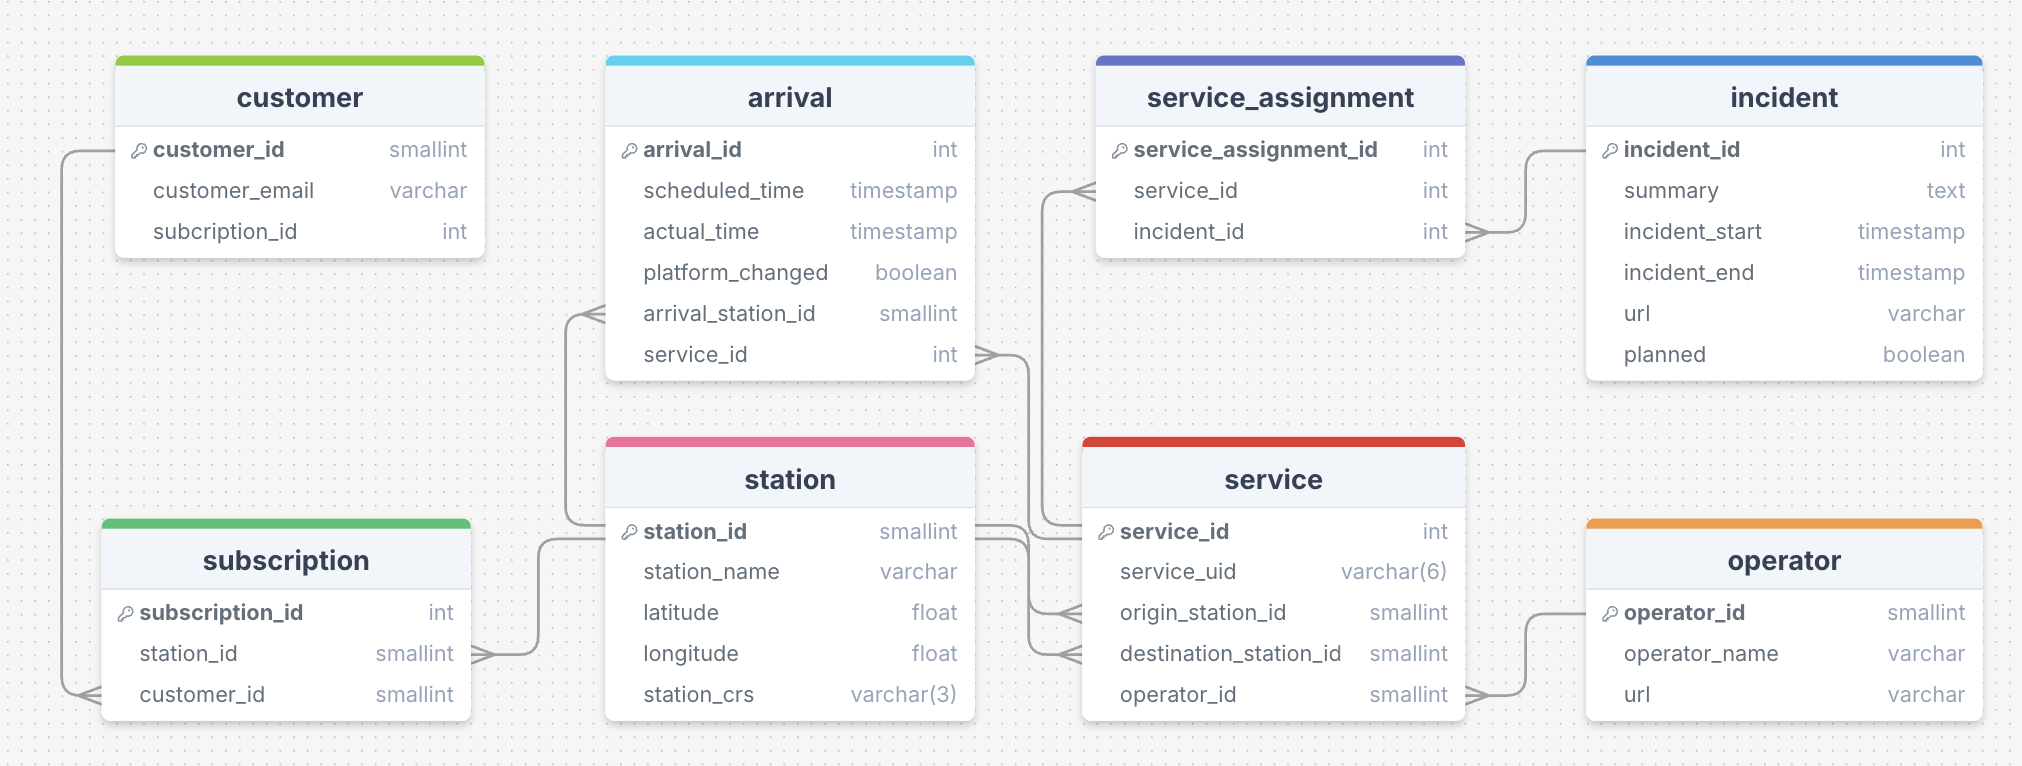
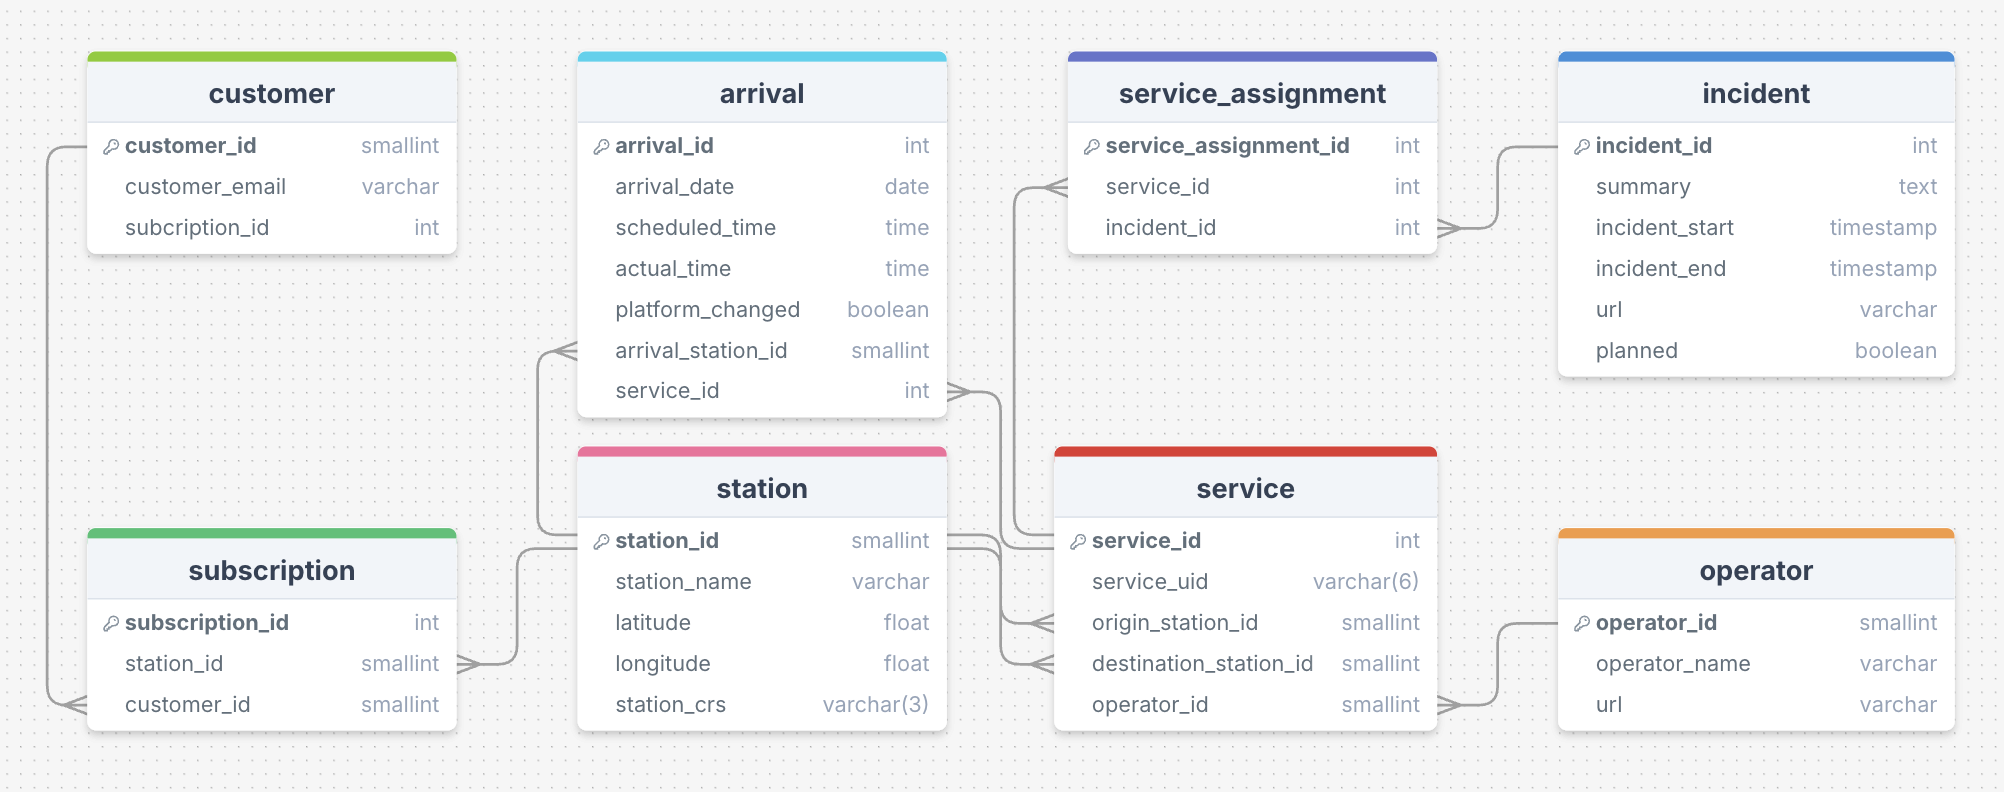
fix schema and ERD and dockerise metrics for lambda

diff --git a/metrics_pipeline/load.py b/metrics_pipeline/load.py
@@ -43,11 +43,13 @@ def create_arrival_staging_table(conn: connection) -> None:
 
         cur.execute("""
                     CREATE TABLE IF NOT EXISTS arrival_staging (
-                    scheduled_time TIMESTAMP,
-                    actual_time TIMESTAMP,
+                    arrival_date DATE,
+                    scheduled_time TIME,
+                    actual_time TIME,
                     platform_changed BOOLEAN,
                     arrival_station_id INT,
-                    service_id INT);
+                    service_id INT,
+                    CONSTRAINT unique_key UNIQUE (arrival_date, arrival_station_id, service_id));
                     """)
 
     logger.info("Created arrival staging table")
@@ -79,12 +81,16 @@ def upload_service_staging_data(df: pd.DataFrame, conn: connection) -> None:
 def upload_arrival_staging_data(df: pd.DataFrame, conn: connection) -> None:
     """Uploads the arrival data to the staging arrival table in RDS."""
 
+    df = df.drop_duplicates(
+        ["arrival_date", "arrival_station_id", "service_id"], keep="first")
+
     df.to_csv("./temp.csv", index=False)
 
     with conn.cursor() as cur:
         with open("./temp.csv", "r", encoding="utf-8") as f:
             cur.copy_expert("""COPY arrival_staging
-                                    (scheduled_time,
+                                    (arrival_date,
+                                     scheduled_time,
                                      actual_time,
                                      platform_changed,
                                      arrival_station_id,
@@ -140,31 +146,30 @@ def merge_arrival_tables(conn: connection) -> None:
     with conn.cursor() as cur:
         cur.execute("""
                     MERGE INTO arrival AS A
-                    USING (
-                        SELECT *
-                        FROM arrival_staging
-                        WHERE scheduled_time IS NOT NULL
-                        AND arrival_station_id IS NOT NULL
-                        AND service_id IS NOT NULL
-                    ) AS S
-                    ON A.scheduled_time = S.scheduled_time
+                    USING arrival_staging AS S
+                    ON A.arrival_date = S.arrival_date
                     AND A.arrival_station_id = S.arrival_station_id
                     AND A.service_id = S.service_id
                     WHEN MATCHED AND (
+                        A.scheduled_time IS DISTINCT FROM S.scheduled_time
+                        OR
                         A.actual_time IS DISTINCT FROM S.actual_time
                         OR
                         A.platform_changed IS DISTINCT FROM S.platform_changed)
                     THEN 
                         UPDATE SET
+                            scheduled_time = S.scheduled_time,
                             actual_time = S.actual_time,
                             platform_changed = S.platform_changed
                     WHEN NOT MATCHED THEN
-                        INSERT (scheduled_time,
+                        INSERT (arrival_date,
+                                scheduled_time,
                                 actual_time,
                                 platform_changed,
                                 arrival_station_id,
                                 service_id)
-                        VALUES (S.scheduled_time,
+                        VALUES (S.arrival_date,
+                                S.scheduled_time,
                                 S.actual_time,
                                 S.platform_changed,
                                 S.arrival_station_id,
@@ -185,6 +190,7 @@ def remove_staging_table(conn: connection, table_name: str) -> None:
         cur.execute(f"""
                     DROP TABLE IF EXISTS {table_name}_staging;
                     """)
+        conn.commit()
     logger.info(f"Removed {table_name}_staging table")
 
 
@@ -211,10 +217,8 @@ def get_service_id_dict(service_id_list: list) -> pd.DataFrame:
     return service_id_dict
 
 
-def load(config: _Environ, conn: connection, data: dict) -> None:
+def load(config: _Environ, conn: connection, transformed_data: dict) -> None:
     """Loads the API data into the database."""
-
-    transformed_data = transform(ENV, data, conn)
 
     service_data = transformed_data["services"]
     arrivals_data = transformed_data["arrivals"]
@@ -230,6 +234,7 @@ def load(config: _Environ, conn: connection, data: dict) -> None:
     arrivals_data["service_id"] = arrivals_data["service_uid"].map(
         service_id_dict).astype("Int64")
     arrivals_data = arrivals_data[[
+        "arrival_date",
         "scheduled_arr_time",
         "actual_arr_time",
         "platform_changed",
@@ -254,4 +259,6 @@ if __name__ == "__main__":
 
     data = extract(ENV, station_crs_list)
 
-    load(ENV, conn, data)
+    transformed_data = transform(ENV, data, conn)
+
+    load(ENV, conn, transformed_data)

diff --git a/metrics_pipeline/extract.py b/metrics_pipeline/extract.py
@@ -84,8 +84,10 @@ def get_service_details(session: requests.Session,
     response = session.get(url=rtt_url).json()
 
     service_list = []
-
     for service in response["services"]:
+
+        if service["atocName"] == "Eurostar":
+            continue
 
         service_dict = {}
 
@@ -116,19 +118,21 @@ def get_service_arrival_details(session: requests.Session, service: dict) -> lis
 
     for arrival in response["locations"]:
         arrival_dict = {}
-        booked_arrival = arrival.get("gbttBookedArrival")
-        actual_arrival = arrival.get("realtimeArrival")
+        booked_arrival_time = arrival.get("gbttBookedArrival")
+        actual_arrival_time = arrival.get("realtimeArrival")
         arrival_dict["crs"] = arrival["crs"]
-        if booked_arrival:
+        if booked_arrival_time:
             arrival_dict["scheduled_arr_time"] = datetime.strptime(
-                (arrival_date + booked_arrival), "%Y-%m-%d%H%M")
+                (booked_arrival_time), "%H%M")
         else:
             arrival_dict["scheduled_arr_time"] = None
-        if actual_arrival:
+        if actual_arrival_time:
             arrival_dict["actual_arr_time"] = datetime.strptime(
-                (arrival_date + actual_arrival), "%Y-%m-%d%H%M")
+                (actual_arrival_time), "%H%M")
         else:
             arrival_dict["actual_arr_time"] = None
+        arrival_dict["arrival_date"] = datetime.strptime(
+            arrival_date, "%Y-%m-%d")
         arrival_dict["platform_changed"] = arrival.get(
             "platformChanged", False)
         arrival_dict["service_uid"] = service["service_uid"]

diff --git a/metrics_pipeline/pipeline.py b/metrics_pipeline/pipeline.py
@@ -33,7 +33,6 @@ def handler(event=None, context=None):
 
     chosen_stations = ["LBG", "STP", "KGX", "SHF", "LST"]
     extracted_data = extract(ENV, chosen_stations)
-    print(extracted_data["services"])
     transformed_data = transform(ENV, extracted_data, conn)
 
     load(ENV, conn, transformed_data)
